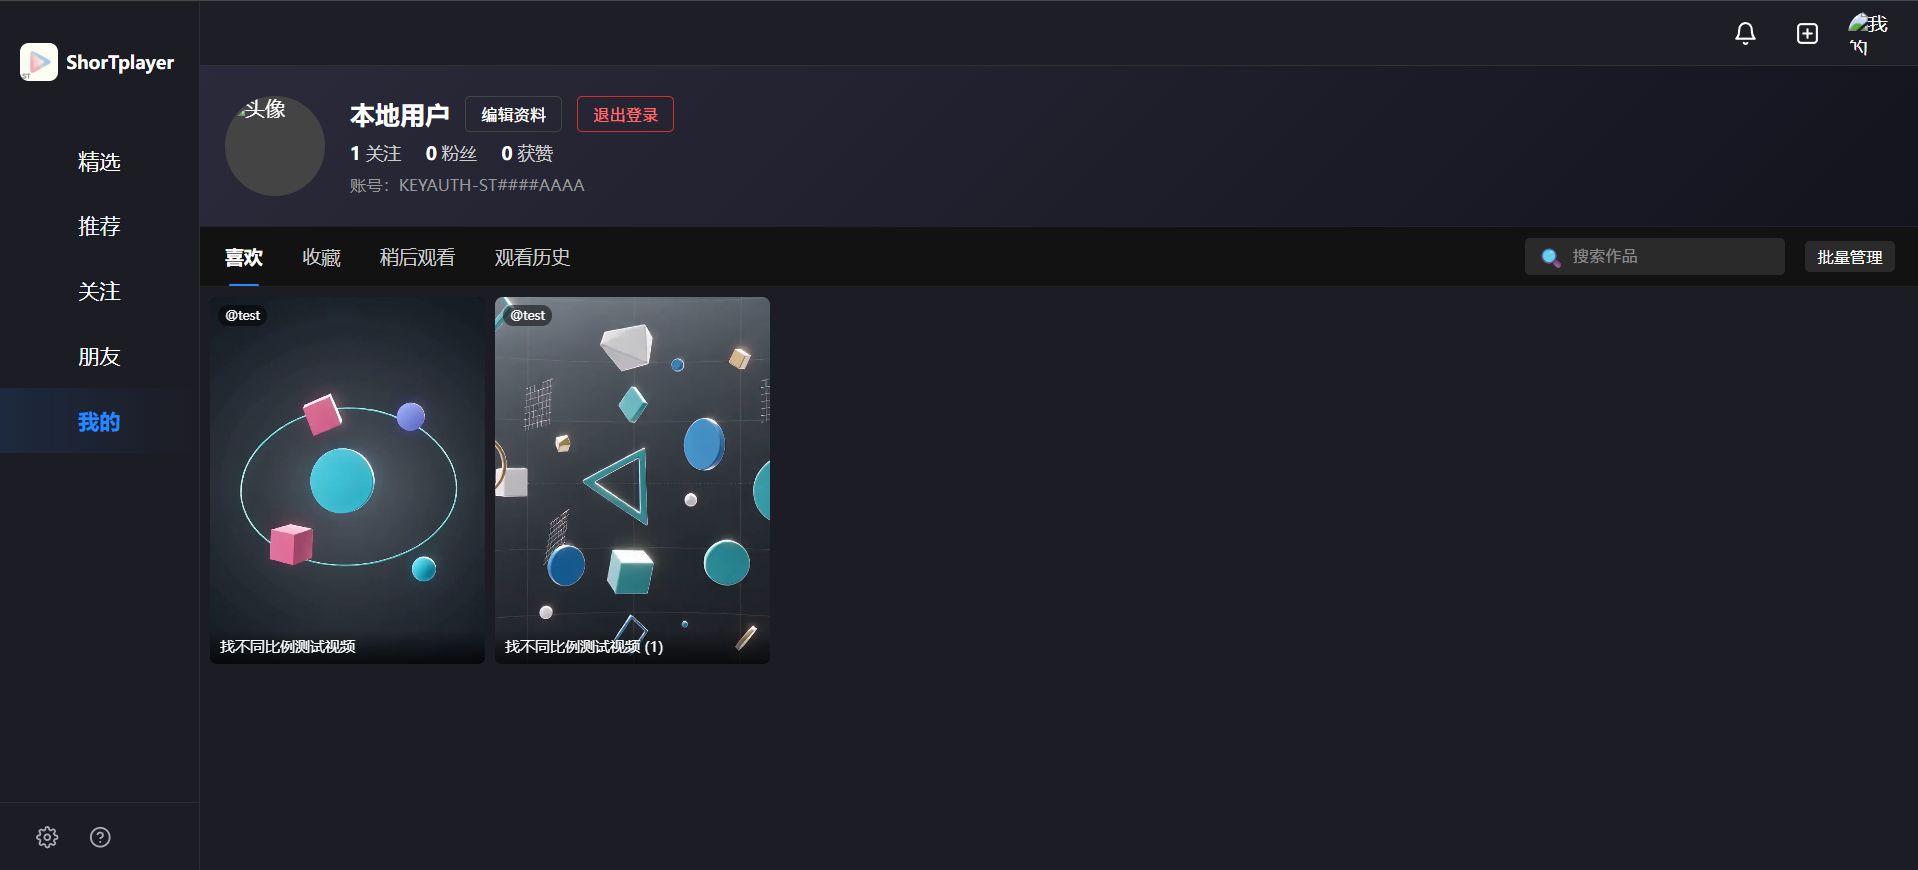
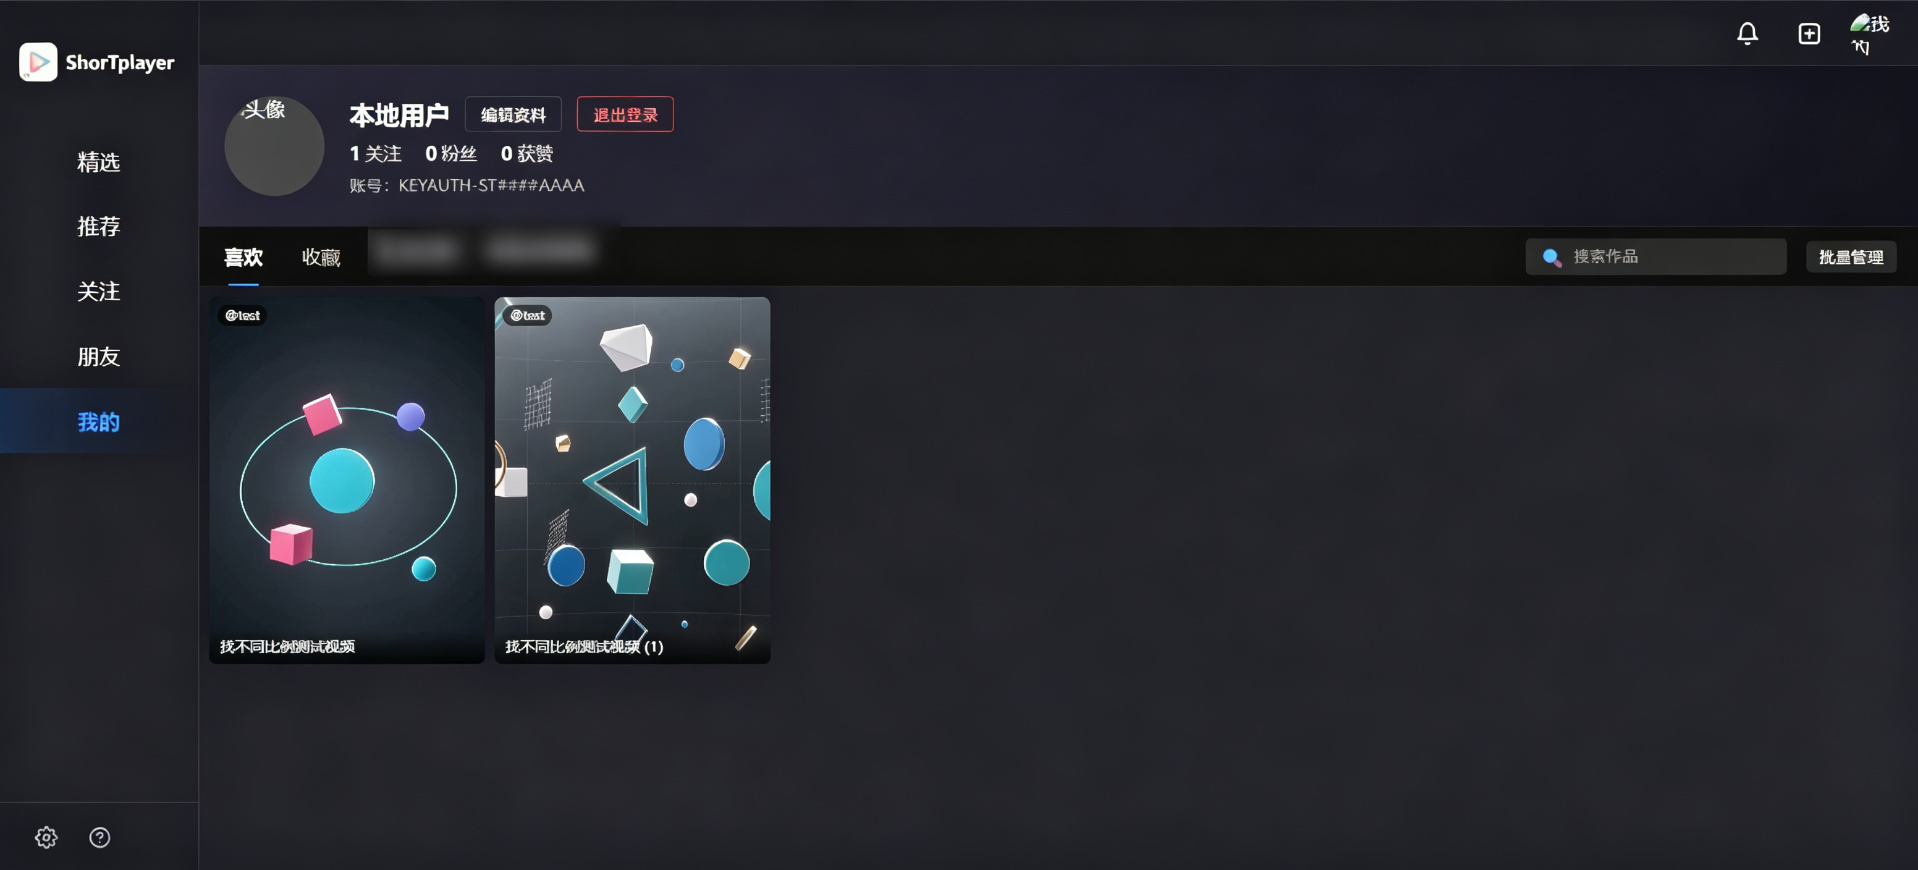
截图改轮播展示、账号打码、更新日志折叠

diff --git a/index.html b/index.html
@@ -178,18 +178,25 @@ body {
 
 .btn-icon { vertical-align: middle; margin-right: 6px; margin-bottom: 2px; }
 
-.screenshot-gallery { display: flex; flex-direction: column; gap: 16px; }
-.screenshot-item {
-    display: block;
-    border-radius: 12px;
-    overflow: hidden;
-    border: 1px solid rgba(255,255,255,0.1);
-    box-shadow: 0 4px 20px rgba(0,0,0,0.3);
-    transition: transform 0.2s, box-shadow 0.2s;
-    text-decoration: none;
+.carousel { position: relative; overflow: hidden; border-radius: 12px; border: 1px solid rgba(255,255,255,0.1); box-shadow: 0 4px 20px rgba(0,0,0,0.3); }
+.carousel-track { display: flex; transition: transform 0.4s ease; }
+.carousel-slide { min-width: 100%; }
+.carousel-slide a { display: block; text-decoration: none; }
+.carousel-slide img { width: 100%; display: block; }
+.carousel-btn {
+    position: absolute; top: 50%; transform: translateY(-50%);
+    background: rgba(0,0,0,0.5); color: #fff; border: none;
+    width: 40px; height: 40px; border-radius: 50%; cursor: pointer;
+    font-size: 16px; display: flex; align-items: center; justify-content: center;
+    transition: background 0.2s; z-index: 2; line-height: 1;
 }
-.screenshot-item:hover { transform: translateY(-2px); box-shadow: 0 8px 28px rgba(0,0,0,0.4); }
-.screenshot-item img { width: 100%; display: block; }
+.carousel-btn:hover { background: rgba(0,0,0,0.75); }
+.carousel-btn.prev { left: 12px; }
+.carousel-btn.next { right: 12px; }
+.carousel-dots { display: flex; justify-content: center; gap: 8px; margin-top: 14px; }
+.carousel-dot { width: 8px; height: 8px; border-radius: 50%; background: rgba(255,255,255,0.3); cursor: pointer; transition: background 0.2s, transform 0.2s; }
+.carousel-dot:hover { background: rgba(255,255,255,0.5); }
+.carousel-dot.active { background: #667eea; transform: scale(1.3); }
 </style>
 </head>
 <body>
@@ -249,12 +256,17 @@ body {
 
     <div class="card">
         <div class="section-title">界面预览</div>
-        <div class="screenshot-gallery">
-            <a href="screenshot1.png" target="_blank" class="screenshot-item"><img src="screenshot1.png" alt="ShorTplayer 界面预览 1"></a>
-            <a href="screenshot2.png" target="_blank" class="screenshot-item"><img src="screenshot2.png" alt="ShorTplayer 界面预览 2"></a>
-            <a href="screenshot3.png" target="_blank" class="screenshot-item"><img src="screenshot3.png" alt="ShorTplayer 界面预览 3"></a>
-            <a href="screenshot4.png" target="_blank" class="screenshot-item"><img src="screenshot4.png" alt="ShorTplayer 界面预览 4"></a>
+        <div class="carousel" id="screenshotCarousel">
+            <button class="carousel-btn prev" onclick="carouselPrev()">&#10094;</button>
+            <button class="carousel-btn next" onclick="carouselNext()">&#10095;</button>
+            <div class="carousel-track" id="carouselTrack">
+                <div class="carousel-slide"><a href="screenshot1.png" target="_blank"><img src="screenshot1.png" alt="ShorTplayer 界面预览 1"></a></div>
+                <div class="carousel-slide"><a href="screenshot2.png" target="_blank"><img src="screenshot2.png" alt="ShorTplayer 界面预览 2"></a></div>
+                <div class="carousel-slide"><a href="screenshot3.png" target="_blank"><img src="screenshot3.png" alt="ShorTplayer 界面预览 3"></a></div>
+                <div class="carousel-slide"><a href="screenshot4.png" target="_blank"><img src="screenshot4.png" alt="ShorTplayer 界面预览 4"></a></div>
+            </div>
         </div>
+        <div class="carousel-dots" id="carouselDots"></div>
     </div>
 
     <div class="card">
@@ -324,6 +336,7 @@ body {
             </div>
             <div class="changelog-content">新增应用内自动更新：电脑版与安卓版检测到新版本后可直接一键升级，无需重新下载安装包</div>
         </div>
+        <div id="moreChangelog" style="display:none;">
         <div class="changelog-item">
             <div class="changelog-header">
                 <span class="changelog-version">v1.0.1</span>
@@ -338,6 +351,8 @@ body {
             </div>
             <div class="changelog-content">首个版本发布</div>
         </div>
+        </div>
+        <button class="toggle-btn" onclick="toggleChangelog()" id="changelogToggleBtn" style="margin-top:16px;">查看更多历史版本 &#9660;</button>
     </div>
 
     <div class="card">
@@ -565,6 +580,45 @@ function toggleFaq(el) {
   } else {
     answer.classList.add('show');
     el.innerHTML = el.innerHTML.replace('&#9660;', '&#9650;');
+  }
+}
+
+// ===== 截图轮播 =====
+var currentSlide = 0;
+var totalSlides = 4;
+function updateCarousel() {
+  var track = document.getElementById('carouselTrack');
+  if (track) track.style.transform = 'translateX(-' + (currentSlide * 100) + '%)';
+  var dots = document.querySelectorAll('.carousel-dot');
+  for (var i = 0; i < dots.length; i++) {
+    dots[i].classList.toggle('active', i === currentSlide);
+  }
+}
+function carouselNext() { currentSlide = (currentSlide + 1) % totalSlides; updateCarousel(); }
+function carouselPrev() { currentSlide = (currentSlide - 1 + totalSlides) % totalSlides; updateCarousel(); }
+function goToSlide(i) { currentSlide = i; updateCarousel(); }
+(function() {
+  var dotsContainer = document.getElementById('carouselDots');
+  if (dotsContainer) {
+    for (var i = 0; i < totalSlides; i++) {
+      var dot = document.createElement('div');
+      dot.className = 'carousel-dot' + (i === 0 ? ' active' : '');
+      dot.onclick = (function(idx) { return function() { goToSlide(idx); }; })(i);
+      dotsContainer.appendChild(dot);
+    }
+  }
+})();
+
+// ===== 更新日志折叠 =====
+function toggleChangelog() {
+  var el = document.getElementById('moreChangelog');
+  var btn = document.getElementById('changelogToggleBtn');
+  if (el.style.display === 'none') {
+    el.style.display = 'block';
+    btn.innerHTML = '收起历史版本 &#9650;';
+  } else {
+    el.style.display = 'none';
+    btn.innerHTML = '查看更多历史版本 &#9660;';
   }
 }
 </script>
